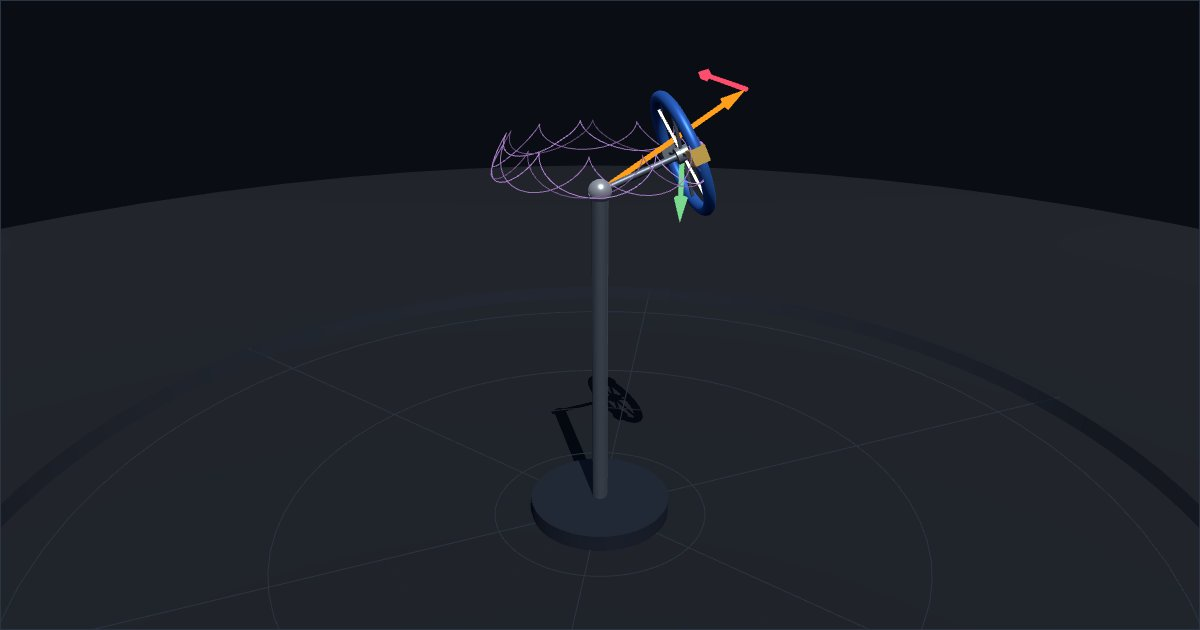
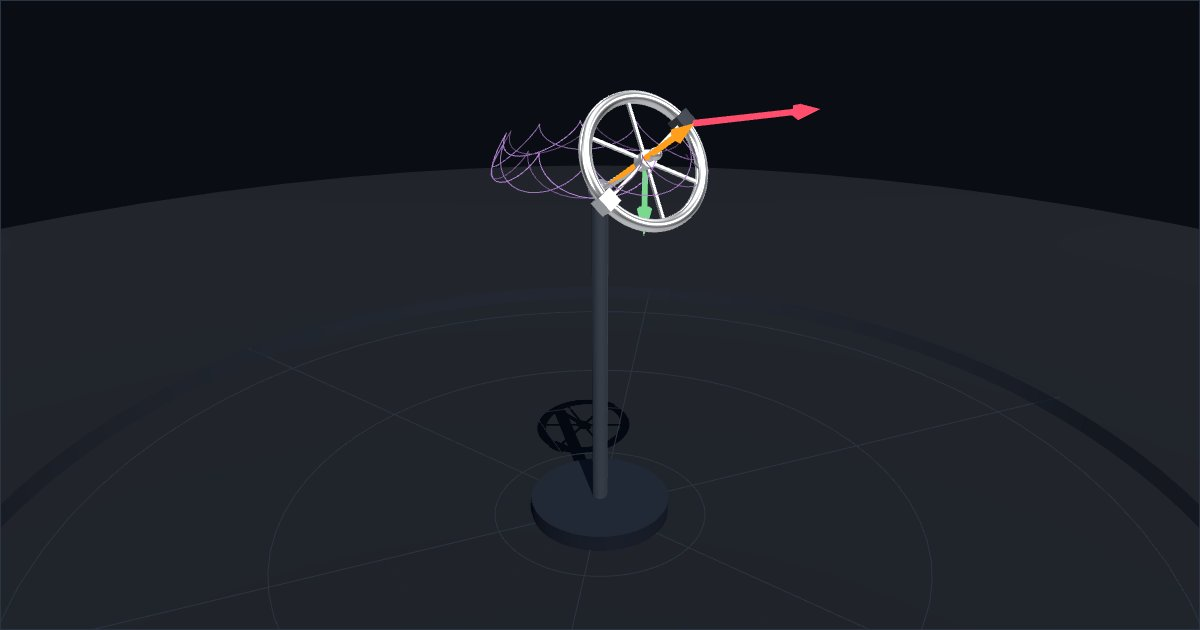
Silver metal gyroscope with studio reflections

Changed region(s): [[0.4625, 0.0905, 0.6783, 0.3921], [0.4317, 0.6032, 0.555, 0.7238]]

diff --git a/js/app.js b/js/app.js
@@ -1,5 +1,6 @@
 import * as THREE from 'three';
 import { OrbitControls } from './vendor/OrbitControls.js';
+import { RoomEnvironment } from './vendor/RoomEnvironment.js';
 import {
   SHAPES,
   inertia,
@@ -213,6 +214,9 @@ viewport.prepend(renderer.domElement);
 const scene = new THREE.Scene();
 scene.background = new THREE.Color(0x0a0e14);
 scene.fog = new THREE.Fog(0x0a0e14, 3, 9);
+// Metal is only as bright as what it reflects: the gyroscope mirrors a soft studio.
+// Applied per material (not scene.environment) so the dark floor stays dark.
+const studio = new THREE.PMREMGenerator(renderer).fromScene(new RoomEnvironment(), 0.04).texture;
 
 const camera = new THREE.PerspectiveCamera(40, 1, 0.01, 50);
 camera.position.set(0.85, 0.35, 1.1);
@@ -260,21 +264,25 @@ tray.position.y = GROUND + STAND.trayHeight / 2;
 stand.add(post, base, pivot, tray);
 scene.add(stand);
 
+// Silver: polished rim, brushed spokes and hub. One dark gunmetal block marks the spin.
+const silver = (color, roughness) => new THREE.MeshStandardMaterial({ color, metalness: 1, roughness, envMap: studio, envMapIntensity: 0.8 });
+const rimMat = silver(0xe8ebef, 0.14);
+const markMat = silver(0x3a3f47, 0.35);
+const spokeMat = silver(0xcfd4da, 0.3);
+const axleMat = silver(0xdfe3e8, 0.2);
+
 // The axle frame carries precession and nutation; the wheel spins inside it
 // by a separately integrated display angle (see slowSpin).
 const axle = new THREE.Group();
 scene.add(axle);
-const rod = new THREE.Mesh(new THREE.CylinderGeometry(1, 1, 1, 16), metal);
+const rod = new THREE.Mesh(new THREE.CylinderGeometry(1, 1, 1, 16), axleMat);
 rod.castShadow = true;
 axle.add(rod);
-const tip = new THREE.Mesh(new THREE.SphereGeometry(0.01, 16, 12), new THREE.MeshStandardMaterial({ color: 0xc792ea, emissive: 0x4b2b66 }));
+const tip = new THREE.Mesh(new THREE.SphereGeometry(0.01, 16, 12), axleMat);
 axle.add(tip);
 
 const wheel = new THREE.Group();
 axle.add(wheel);
-const rimMat = new THREE.MeshStandardMaterial({ color: 0x3b82f6, metalness: 0.55, roughness: 0.35 });
-const markMat = new THREE.MeshStandardMaterial({ color: 0xffd166, metalness: 0.3, roughness: 0.4, emissive: 0x3a2a00 });
-const spokeMat = new THREE.MeshStandardMaterial({ color: 0xc8d1dc, metalness: 0.7, roughness: 0.3 });
 let wheelParts = [];
 
 function buildWheel() {
